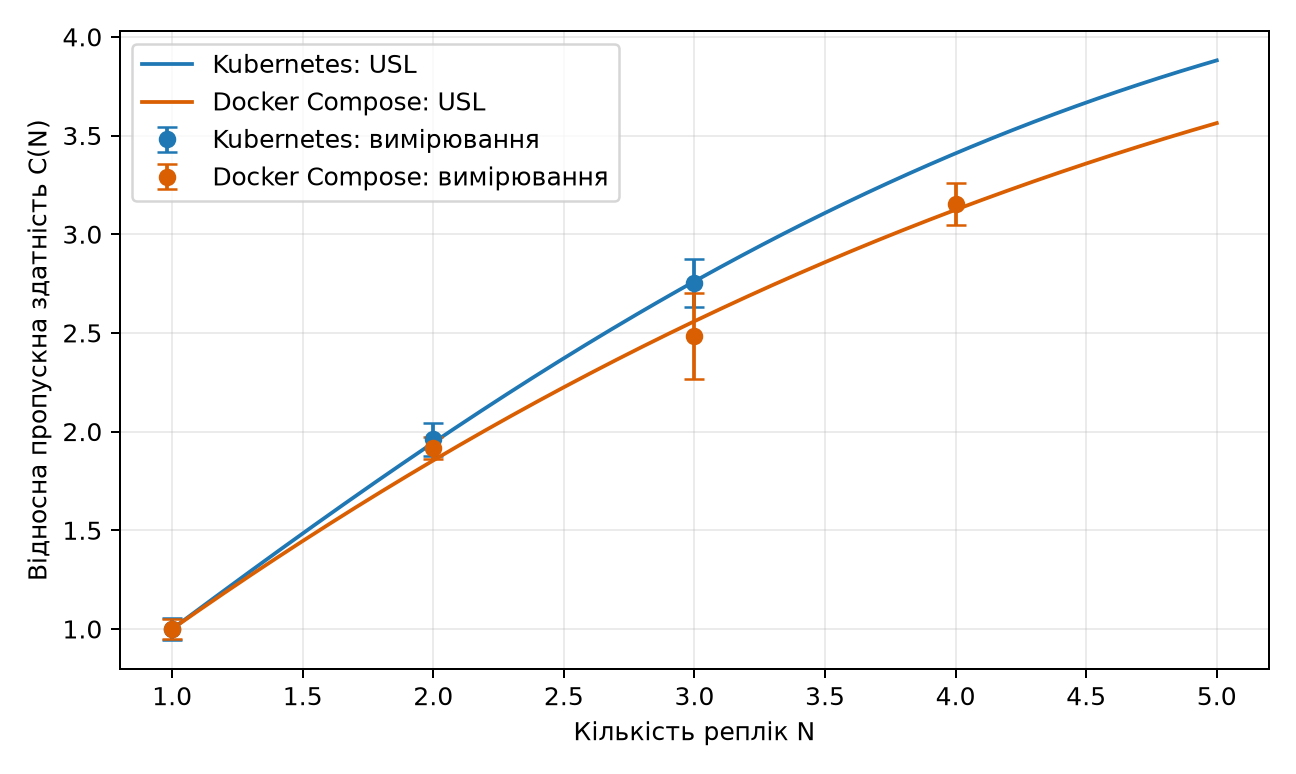
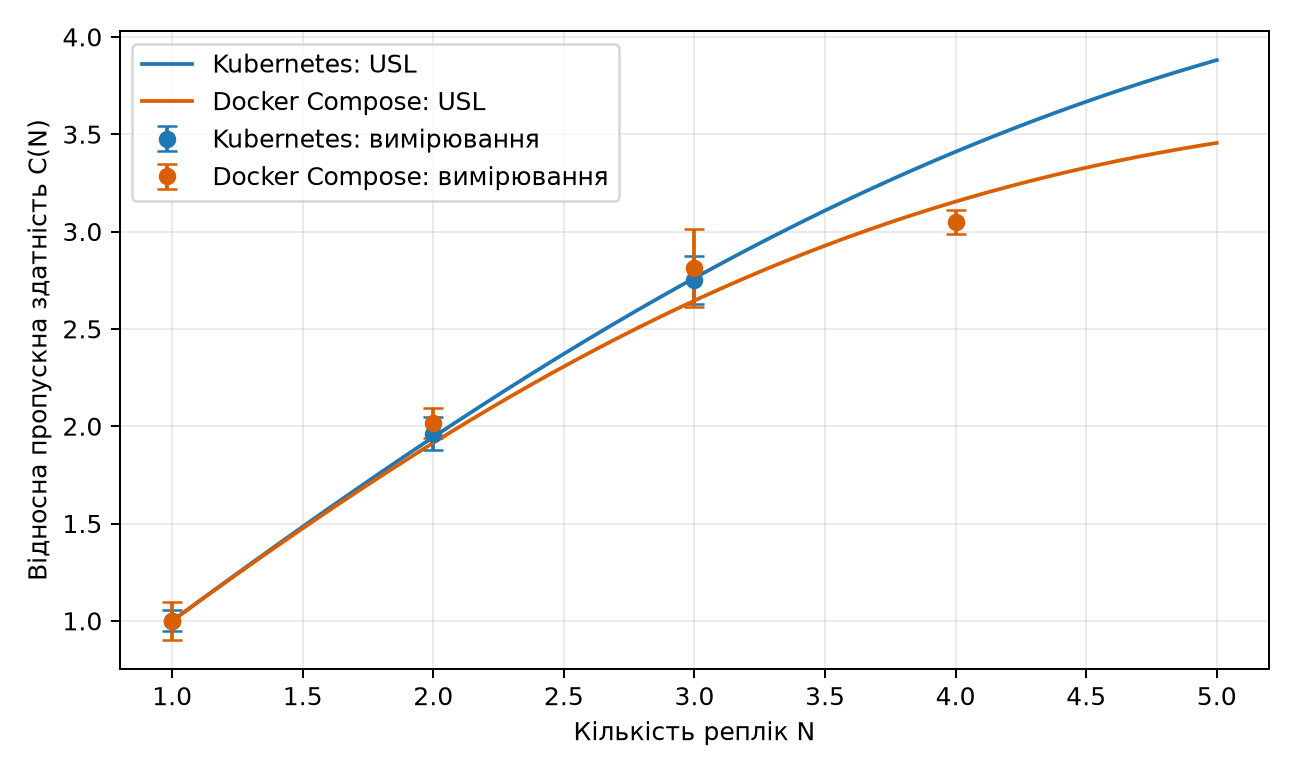
Updates

diff --git a/prescriptions-service/analyze_lab3.py b/prescriptions-service/analyze_lab3.py
@@ -39,7 +39,16 @@ def finite(value: str | float | int | None) -> float | None:
 
 def fit_usl(capacity: dict[int, float]) -> dict[str, float | None]:
     if 1 not in capacity or len(capacity) < 3:
-        return {"lambda": capacity.get(1), "sigma": None, "kappa": None, "n_star": None}
+        return {
+            "lambda": capacity.get(1),
+            "sigma": None,
+            "kappa": None,
+            "n_star": None,
+            "sigma_unconstrained": None,
+            "kappa_unconstrained": None,
+            "sse_unconstrained": None,
+            "sse_nonnegative": None,
+        }
     lam = capacity[1]
     observations: list[tuple[float, float, float]] = []
     for n, throughput in sorted(capacity.items()):
@@ -54,9 +63,20 @@ def fit_usl(capacity: dict[int, float]) -> dict[str, float | None]:
     svy = sum(v * y for _, v, y in observations)
     determinant = suu * svv - suv * suv
     if abs(determinant) < 1e-12:
-        return {"lambda": lam, "sigma": None, "kappa": None, "n_star": None}
-    sigma = (svv * suy - suv * svy) / determinant
-    kappa = (suu * svy - suv * suy) / determinant
+        return {
+            "lambda": lam,
+            "sigma": None,
+            "kappa": None,
+            "n_star": None,
+            "sigma_unconstrained": None,
+            "kappa_unconstrained": None,
+            "sse_unconstrained": None,
+            "sse_nonnegative": None,
+        }
+    sigma_raw = (svv * suy - suv * svy) / determinant
+    kappa_raw = (suu * svy - suv * suy) / determinant
+    sigma = sigma_raw
+    kappa = kappa_raw
     if sigma < 0 and kappa < 0:
         sigma, kappa = 0.0, 0.0
     elif sigma < 0:
@@ -65,8 +85,22 @@ def fit_usl(capacity: dict[int, float]) -> dict[str, float | None]:
     elif kappa < 0:
         kappa = 0.0
         sigma = max(0.0, suy / suu)
+    def sse(model_sigma: float, model_kappa: float) -> float:
+        return sum(
+            (y - model_sigma * u - model_kappa * v) ** 2
+            for u, v, y in observations
+        )
     n_star = math.sqrt((1 - sigma) / kappa) if kappa > 0 and sigma < 1 else None
-    return {"lambda": lam, "sigma": sigma, "kappa": kappa, "n_star": n_star}
+    return {
+        "lambda": lam,
+        "sigma": sigma,
+        "kappa": kappa,
+        "n_star": n_star,
+        "sigma_unconstrained": sigma_raw,
+        "kappa_unconstrained": kappa_raw,
+        "sse_unconstrained": sse(sigma_raw, kappa_raw),
+        "sse_nonnegative": sse(sigma, kappa),
+    }
 
 
 def usl_value(n: float, model: dict[str, float | None]) -> float | None:
@@ -409,6 +443,12 @@ def audit_scheduler_timing(results: Path) -> list[dict[str, Any]]:
 
 def compose_capacity(results: Path) -> dict[int, float]:
     lab2 = results.parent / "lab2"
+    corrected = lab2 / "corrected_fine_peak_summary.csv"
+    if corrected.exists():
+        rows = read_csv(corrected)
+        capacity = {int(row["n"]): float(row["X_rps"]) for row in rows}
+        if {1, 2, 3}.issubset(capacity):
+            return capacity
     capacity: dict[int, float] = {}
     for n in range(1, 5):
         path = lab2 / f"web{n}_final_meta.json"
@@ -419,6 +459,12 @@ def compose_capacity(results: Path) -> dict[int, float]:
 
 def compose_spread(results: Path) -> dict[int, float]:
     lab2 = results.parent / "lab2"
+    corrected = lab2 / "corrected_fine_peak_summary.csv"
+    if corrected.exists():
+        rows = read_csv(corrected)
+        spread = {int(row["n"]): float(row["std_rps"]) for row in rows}
+        if {1, 2, 3}.issubset(spread):
+            return spread
     spread: dict[int, float] = {}
     for n in range(1, 5):
         path = lab2 / f"web{n}_final_meta.json"
@@ -578,11 +624,14 @@ def analyze_d2(results: Path) -> tuple[list[dict[str, Any]], int | None]:
         replicas = int(parts[2].removeprefix("n"))
         meta = read_json(meta_path)
         steps_path = results / f"{stem}_steps.csv"
+        requests_path = results / f"{stem}_requests.csv"
         if not steps_path.exists():
             continue
         measured = [row for row in read_csv(steps_path) if row["segment_name"] != "warmup"]
         peak = max(measured, key=lambda row: float(row["success_rps"]))
         totals = meta.get("totals", {})
+        request_rows = read_csv(requests_path) if requests_path.exists() else []
+        non2xx_rows = [row for row in request_rows if row.get("outcome") == "non2xx"]
         pg_path = results / f"{stem}_pg_stat_activity.txt"
         rows.append({
             "phase": phase,
@@ -590,6 +639,8 @@ def analyze_d2(results: Path) -> tuple[list[dict[str, Any]], int | None]:
             "x_peak_rps": float(peak["success_rps"]),
             "client_p99_ms": finite(peak["p99_client_ms"]),
             "http_non2xx": int(totals.get("non2xx", 0)),
+            "http_non2xx_unknown_pod": sum(
+                row.get("pod") in ("", "unknown") for row in non2xx_rows),
             "connection_errors": int(totals.get("connection_errors", 0)),
             "timeouts": int(totals.get("timeouts", 0)),
             "queue_rejected": int(totals.get("queue_rejected", 0)),
@@ -774,6 +825,11 @@ def main() -> None:
         "kubernetes_usl": k8s_model,
         "kubernetes_spread_rps": k8s_spread,
         "compose_capacity": compose,
+        "compose_source": (
+            "results/lab2/corrected_fine_peak_summary.csv"
+            if (results.parent / "lab2" / "corrected_fine_peak_summary.csv").exists()
+            else "results/lab2/webN_final_meta.json (historical fallback)"
+        ),
         "compose_spread_rps": compose_sd,
         "compose_usl": compose_model,
         "hpa_timings": timings_for_json,
@@ -783,7 +839,7 @@ def main() -> None:
             "USL includes only runs whose final two steps were below 90% of target.",
             "Throttling mean requires every pod at the exact X(N) endpoint; an observed value of 1 still determines the maximum because the ratio is bounded by 1.",
             "Peak client latency is grouped by completion time; peak_latency_summary.csv exposes the planned-segment composition of that window.",
-            "Compose and Kubernetes have different CPU limits and are compared as separate stands.",
+            "The selected Compose series and Kubernetes have different dates, step profiles, and CPU limits; they are compared as separate stands.",
         ],
     }
     (results / "analysis_summary.json").write_text(

diff --git a/prescriptions-service/k8s_load_test.py b/prescriptions-service/k8s_load_test.py
@@ -116,6 +116,7 @@ def new_second_bucket() -> dict[str, Any]:
         "scheduled": 0,
         "enqueued": 0,
         "started": 0,
+        "wire_sent": 0,
         "completed": 0,
         "ok": 0,
         "non2xx": 0,
@@ -166,13 +167,28 @@ async def execute(args: argparse.Namespace) -> None:
         return next(segment for segment in segments if segment.index == index)
 
     async def make_session() -> aiohttp.ClientSession:
+        trace_config = aiohttp.TraceConfig()
+
+        async def on_request_headers_sent(session, trace_config_ctx, params):
+            request_state = trace_config_ctx.trace_request_ctx
+            if request_state is not None and not request_state["wire_sent"]:
+                moment = time.monotonic()
+                stats[elapsed_second(moment)]["wire_sent"] += 1
+                request_state["wire_sent"] = True
+                request_state["wire_sent_unix"] = time.time()
+
+        trace_config.on_request_headers_sent.append(on_request_headers_sent)
         connector = aiohttp.TCPConnector(
             limit=1,
             limit_per_host=1,
             keepalive_timeout=args.keepalive_timeout,
             ttl_dns_cache=300,
         )
-        return aiohttp.ClientSession(connector=connector, timeout=timeout)
+        return aiohttp.ClientSession(
+            connector=connector,
+            timeout=timeout,
+            trace_configs=[trace_config],
+        )
 
     async def worker(worker_id: int) -> None:
         nonlocal active_requests, sessions_opened, sessions_rotated, connections_established
@@ -203,9 +219,13 @@ async def execute(args: argparse.Namespace) -> None:
                 pod = "unknown"
                 exception_type = ""
                 exception_message = ""
+                request_state = {"wire_sent": False, "wire_sent_unix": None}
                 try:
                     endpoint = request_base + str(item.record_id)
-                    async with session.get(endpoint) as response:
+                    async with session.get(
+                        endpoint,
+                        trace_request_ctx=request_state,
+                    ) as response:
                         await response.read()
                         status = response.status
                         pod = response.headers.get("X-Pod", "unknown")
@@ -247,6 +267,10 @@ async def execute(args: argparse.Namespace) -> None:
                         "connection_generation": connection_generation,
                         "planned_unix": round(item.planned_unix, 6),
                         "started_unix": round(started_unix, 6),
+                        "wire_sent_unix": (
+                            round(request_state["wire_sent_unix"], 6)
+                            if request_state["wire_sent_unix"] is not None else ""
+                        ),
                         "completed_unix": round(completed_unix, 6),
                         "queue_ms": round(queue_ms, 3),
                         "request_ms": round(request_ms, 3),
@@ -399,7 +423,8 @@ async def execute(args: argparse.Namespace) -> None:
     second_fields = [
         "unix_second", "elapsed_second", "segment_index", "segment_name",
         "segment_second", "target_rps", "scheduled_rps", "enqueued_rps",
-        "started_rps", "sent_rps", "completed_rps", "success_rps", "http_2xx",
+        "started_rps", "wire_sent_rps", "sent_rps", "completed_rps",
+        "success_rps", "http_2xx",
         "http_non2xx", "connection_errors", "timeouts", "queue_rejected",
         "cancelled", "inflight_end", "queue_depth_end", "p50_client_ms",
         "p95_client_ms", "p99_client_ms", "p99_ms", "p50_request_ms",
@@ -423,7 +448,8 @@ async def execute(args: argparse.Namespace) -> None:
                 "scheduled_rps": bucket["scheduled"],
                 "enqueued_rps": bucket["enqueued"],
                 "started_rps": bucket["started"],
-                "sent_rps": bucket["started"],
+                "wire_sent_rps": bucket["wire_sent"],
+                "sent_rps": bucket["wire_sent"],
                 "completed_rps": bucket["completed"],
                 "success_rps": bucket["ok"],
                 "http_2xx": bucket["ok"],
@@ -467,6 +493,8 @@ async def execute(args: argparse.Namespace) -> None:
             "window_end_second": window_end,
             "scheduled_rps": round(sum(stats[s]["scheduled"] for s in seconds) / window_length, 3),
             "started_rps": round(sum(stats[s]["started"] for s in seconds) / window_length, 3),
+            "wire_sent_rps": round(sum(stats[s]["wire_sent"] for s in seconds) / window_length, 3),
+            "sent_rps": round(sum(stats[s]["wire_sent"] for s in seconds) / window_length, 3),
             "success_rps": round(success_rps, 3),
             "std_rps": round(statistics.pstdev(success_values), 3) if len(success_values) > 1 else 0,
             "attainment_ratio": round(success_rps / segment.target_rps, 6),
@@ -486,7 +514,8 @@ async def execute(args: argparse.Namespace) -> None:
 
     request_fields = [
         "request_id", "segment_index", "segment_name", "connection_id",
-        "connection_generation", "planned_unix", "started_unix", "completed_unix",
+        "connection_generation", "planned_unix", "started_unix", "wire_sent_unix",
+        "completed_unix",
         "queue_ms", "request_ms", "client_ms", "status", "outcome", "pod",
     ]
     with requests_path.open("w", newline="", encoding="utf-8") as handle:
@@ -538,7 +567,7 @@ async def execute(args: argparse.Namespace) -> None:
     capacity_reached = bool(final_row and final_row["attainment_ratio"] < 0.9)
     totals = {
         key: sum(stats[second][key] for second in stats)
-        for key in ["scheduled", "enqueued", "started", "completed", "ok", "non2xx",
+        for key in ["scheduled", "enqueued", "started", "wire_sent", "completed", "ok", "non2xx",
                     "connection_errors", "timeouts", "queue_rejected", "cancelled"]
     }
     meta = {

diff --git a/prescriptions-service/REPORT2.md b/prescriptions-service/REPORT2.md
@@ -4,7 +4,7 @@
 **Варіант:** 6  
 **Основа:** CRUD-сервіс призначень препаратів `/prescriptions`, реалізований у лабораторній роботі № 1.  
 **Початкові експерименти:** 24.10.2026.
-**Виправлений аудит і повторні експерименти:** 04–05.11.2026.
+**Виправлений аудит і повторні експерименти:** 05.11.2026.
 
 ## 1. Мета і постановка завдання
 
